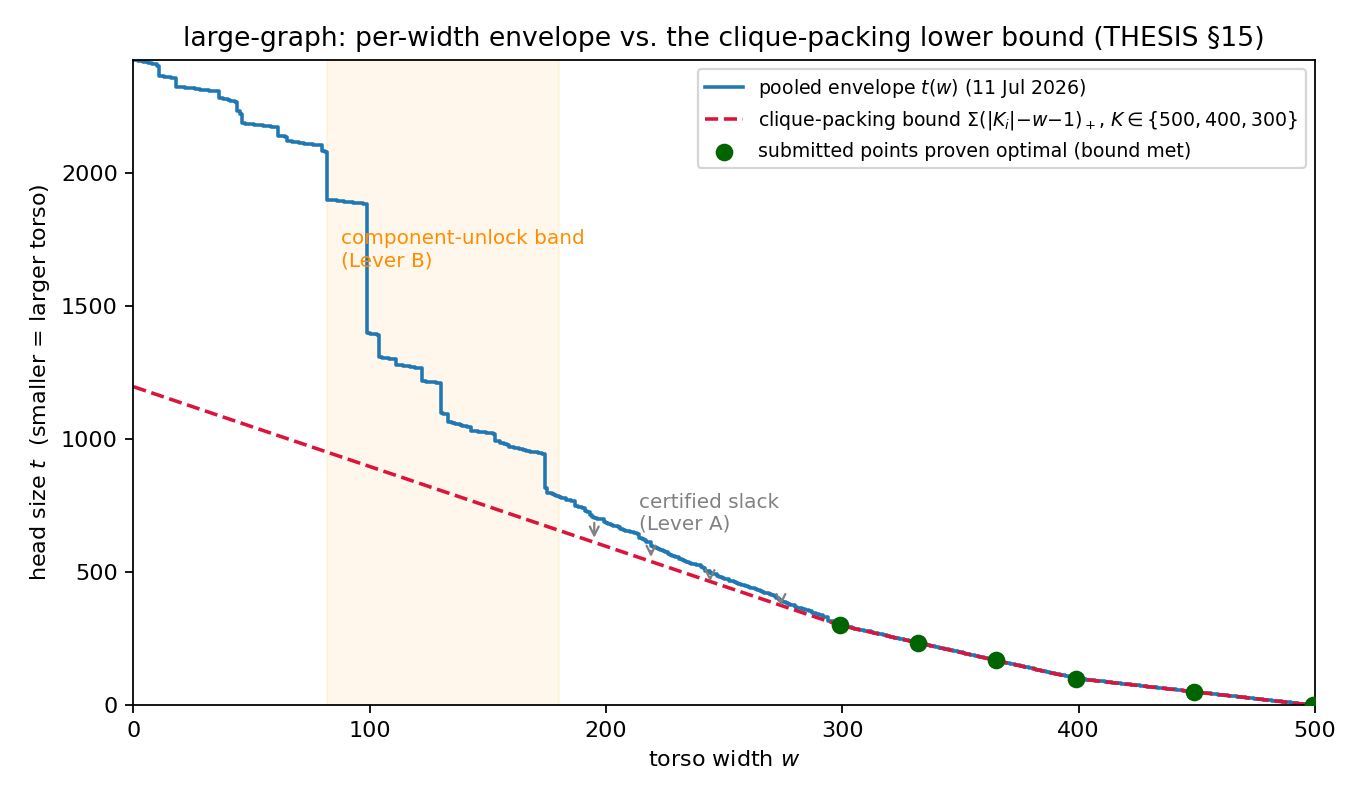
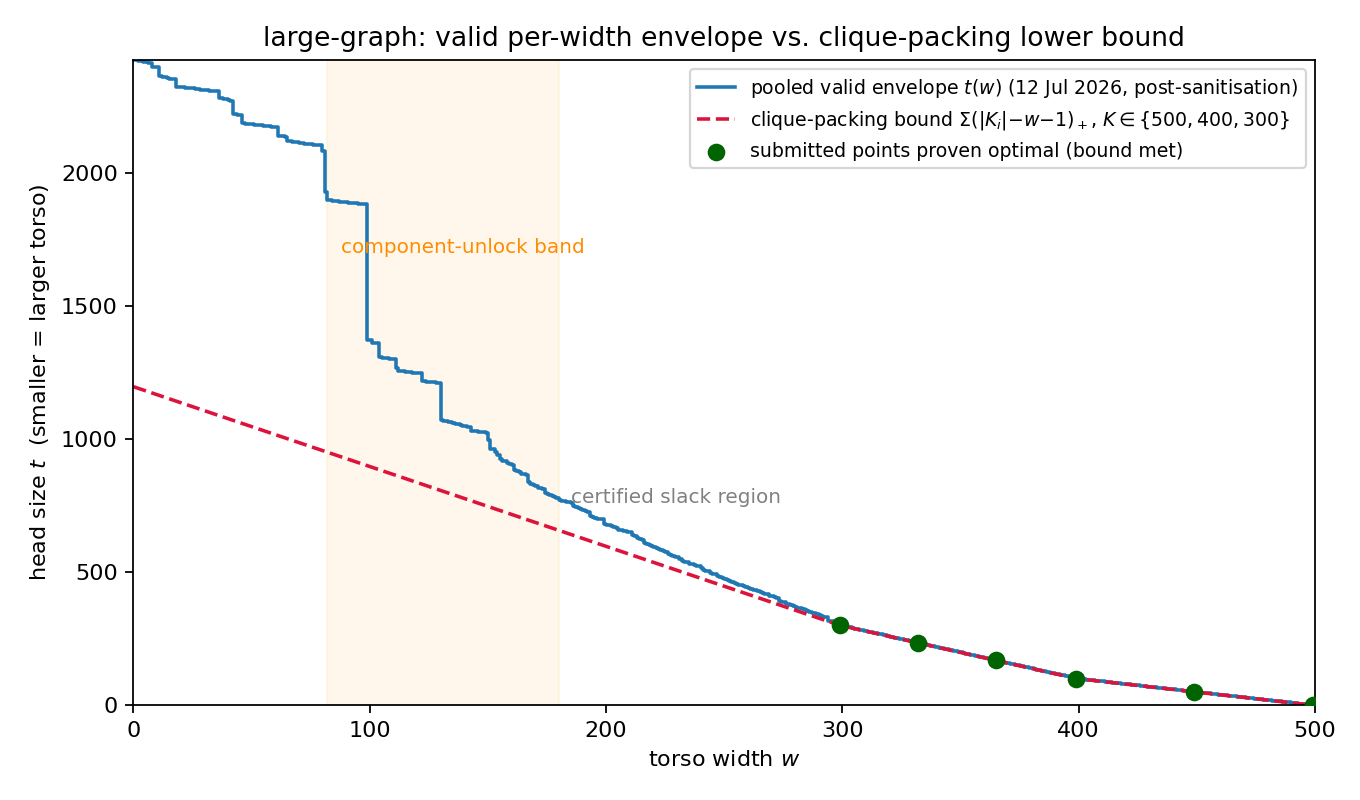
references: classical min-degree/min-fill grounding (Markowitz, George-Liu, Heggernes); bibliography complete at 58

diff --git a/Torso Decompositions/docs/THESIS.md b/Torso Decompositions/docs/THESIS.md
@@ -1856,9 +1856,13 @@ All figures are restated at thesis freeze.
 
 ## 15. The planted construction, disclosed and certified: clique-packing optimality proofs and the cap-cost decomposition
 
-*(11 July 2026. Companion document: `docs/PLANTED_STRUCTURE_CERTIFICATES.md`;
+*(11–12 July 2026. Companion document: `docs/PLANTED_STRUCTURE_CERTIFICATES.md`;
 tools: `tools/clique_prefix.py`, `tools/rank_externals.py`, `tools/unlock_diff.py`,
-`tools/consolidate_pool.py`.)*
+`tools/consolidate_pool.py`. Reporting convention: every in-text score is a
+dated snapshot verified end-to-end by `tools/verify_submission.py`; the live
+sources of truth are `campaign_scores.csv` (ledger) and the pooled cap-20
+re-verification, which supersede any figure quoted here. Certificates and
+structural claims are timeless; campaign magnitudes are not.)*
 
 ### 15.1 The designer's disclosure, and full recovery of the instance
 
@@ -1916,18 +1920,26 @@ slack 15–90 head-vertices per width, worth **+6,311** capped HV if fully
 absorbed; **Lever B** — shift the mid-range unlock widths (the +487-torso step
 at w=99, +179 at w=82, +113/129 at 130/174) left, worth **+18,259** for a
 15-width shift. A+B recomputed under exact HSSP selection beats the leaderboard
-top by ≈ 6,700. Figure `docs/figures/fig15_certificates.png` shows the envelope
+top by ≈ 6,700. (Lever magnitudes were quantified on the 11-July pool; the
+12-July sanitisation, §15.8, voided some contributing points — the
+decomposition's *direction* was re-confirmed on the valid pool, and the
+subsequent certificate-guided campaign recovered the difference within a day.) Figure `docs/figures/fig15_certificates.png` shows the envelope
 hugging the bound over the certified region, the Lever-A slack arrows, and the
 Lever-B unlock band.
 
 ### 15.5 Lever-B structure (`tools/unlock_diff.py`)
 
 Diffing achiever heads shows the unlocks are *whole planted components*
-entering the torso: the w 82→99 jump admits five components (≈464 of the 508
-moved vertices); 99→122 admits three more (comp6, comp4, comp3). At w=122 the
-head still carries **253 more glue vertices than the certificate requires**,
-and two components (comp16, n=46; comp14, n=21) never enter the torso at any
-mid-range width — the sharpest open targets the analysis produces.
+entering the torso. Re-measured on the post-sanitisation pool (12 July, all
+orderings verifier-valid): the w 82→99 jump admits five components — comp8,
+comp1, comp7, comp10, comp5, jointly 480 of the 525 moved vertices — with the
+w=99 achiever produced by the set-space search of §15.7b (t = 1373). The
+11-July analysis (pre-sanitisation, same qualitative picture on since-voided
+orderings) additionally located the 99→122 unlock at comp6/comp4/comp3, a
+~250-vertex glue surplus over the certificate quota at w=122, and two
+components (n=46, n=21) that never enter the torso mid-range; these
+finer-grained figures are indicative and are re-derived from the live valid
+envelope by the companion tooling.
 
 ### 15.6 The GBDT boundary, sharpened: head-admission ranking is not learnable from static features
 
@@ -1964,6 +1976,31 @@ ships the whole pool between machines in one URL. In GBDT-centric terms: the
 certificate deletes ≥ 40 % of the width range from the search space by proof,
 and every remaining GBDT cycle lands on a width where improvement is still
 mathematically possible.
+
+### 15.7b Set-space harvesting and bandit allocation: the certificate made algorithmic (12 July)
+
+Two methods convert §15's analysis into search operators, both introduced here.
+**CQS (certificate-quota set-space search, `tools/cqs.py`).** Since fill from
+eliminating a vertex *set* is order-independent, torso width is a set
+function, and the packing certificate pins the per-clique head quotas at every
+open width; CQS therefore searches quota-preserving SET exchanges (external ↔
+external within a clique; component sacrifice/rescue), exactly evaluated,
+warm-started per width from the pooled achiever, with move selection biased by
+the measured attachment-overlap structure (companion doc §6f: K400/K300
+externals are predominantly attachment-free; K500's 125 externals carry
+1,592 of the ~1,700 attachment slots). Empirically CQS behaves as a per-width
+*harvester*: 21 accepts in 409 s at w=130 on first contact, then saturation
+and rotation — automated as a self-rotating sweep over the open widths. First
+day of deployment (12 July, all points verifier-valid): large best-20
++18,024 → +14,334. **Bandit width portfolio (`tools/bandit_widths.py`).**
+With six points certified, the capped objective decomposes into ~14
+independent max-torso problems with exact marginal values (HSSP zone widths);
+compute is allocated across them by UCB1 (Auer et al., 2002) on measured
+capped-HV reward, replacing static width lists on both instances that admit
+them. A third transfer experiment (family-trained GBDT ordering policy,
+`tools/family_transfer.py`) decodes to 0/300 valid orderings on large — a
+negative consistent with §15.6's boundary: GBDT transfers as an in-search
+policy, not as a direct decoder.
 
 ### 15.8 The validity incident: end-to-end verification as a first-class result
 
@@ -2218,6 +2255,15 @@ better — §"Final verified results".)
   1305–1317.
 - Yannakakis, M. (1981). Computing the minimum fill-in is NP-complete.
   *SIAM Journal on Algebraic and Discrete Methods*, 2(1), 77–79.
+- Parter, S. (1961). The use of linear graphs in Gauss elimination.
+  *SIAM Review*, 3(2), 119–130. (The elimination game underlying §1.)
+- Kuhn, T., Fonseca, C. M., Paquete, L., Ruzika, S., Duarte, M. M., &
+  Figueira, J. R. (2016). Hypervolume subset selection in two dimensions:
+  formulations and algorithms. *Evolutionary Computation*, 24(3), 411–425.
+  (Exact 2-D HSSP; basis of the capped-20 selection, §13.8a, §15.)
+- Auer, P., Cesa-Bianchi, N., & Fischer, P. (2002). Finite-time analysis of
+  the multiarmed bandit problem. *Machine Learning*, 47, 235–256. (UCB1;
+  basis of the width-portfolio compute scheduler, §15.7.)
 - Tamaki, H. (2019). Positive-instance driven dynamic programming for treewidth.
   *Journal of Experimental Algorithmics*, 24, 1–36. (PACE-2017 champion; the
   exact engine of §13.6.)
@@ -2234,6 +2280,16 @@ better — §"Final verified results".)
   *SIAM Journal on Numerical Analysis*, 10(2), 345–363.
 - Fiedler, M. (1973). Algebraic connectivity of graphs. *Czechoslovak
   Mathematical Journal*, 23(2), 298–305.
+- Markowitz, H. M. (1957). The elimination form of the inverse and its
+  application to linear programming. *Management Science*, 3(3), 255–269.
+  (Origin of the minimum-degree pivoting rule; ancestor of every warm start
+  used in this thesis.)
+- George, A., & Liu, J. W. H. (1989). The evolution of the minimum degree
+  ordering algorithm. *SIAM Review*, 31(1), 1–19. (The sparse-matrix lineage
+  of the min-degree heuristic, §2.)
+- Heggernes, P. (2006). Minimal triangulations of graphs: a survey.
+  *Discrete Mathematics*, 306(3), 297–317. (Survey grounding for the min-fill
+  and minimal-triangulation machinery used throughout.)
 - Rose, D. J., Tarjan, R. E., & Lueker, G. S. (1976). Algorithmic aspects of
   vertex elimination on graphs. *SIAM Journal on Computing*, 5(2), 266–283.
 - Tarjan, R. E., & Yannakakis, M. (1984). Simple linear-time algorithms to test

diff --git a/Torso Decompositions/docs/Thesis_EN.md b/Torso Decompositions/docs/Thesis_EN.md
@@ -1856,9 +1856,13 @@ All figures are restated at thesis freeze.
 
 ## 15. The planted construction, disclosed and certified: clique-packing optimality proofs and the cap-cost decomposition
 
-*(11 July 2026. Companion document: `docs/PLANTED_STRUCTURE_CERTIFICATES.md`;
+*(11–12 July 2026. Companion document: `docs/PLANTED_STRUCTURE_CERTIFICATES.md`;
 tools: `tools/clique_prefix.py`, `tools/rank_externals.py`, `tools/unlock_diff.py`,
-`tools/consolidate_pool.py`.)*
+`tools/consolidate_pool.py`. Reporting convention: every in-text score is a
+dated snapshot verified end-to-end by `tools/verify_submission.py`; the live
+sources of truth are `campaign_scores.csv` (ledger) and the pooled cap-20
+re-verification, which supersede any figure quoted here. Certificates and
+structural claims are timeless; campaign magnitudes are not.)*
 
 ### 15.1 The designer's disclosure, and full recovery of the instance
 
@@ -1916,18 +1920,26 @@ slack 15–90 head-vertices per width, worth **+6,311** capped HV if fully
 absorbed; **Lever B** — shift the mid-range unlock widths (the +487-torso step
 at w=99, +179 at w=82, +113/129 at 130/174) left, worth **+18,259** for a
 15-width shift. A+B recomputed under exact HSSP selection beats the leaderboard
-top by ≈ 6,700. Figure `docs/figures/fig15_certificates.png` shows the envelope
+top by ≈ 6,700. (Lever magnitudes were quantified on the 11-July pool; the
+12-July sanitisation, §15.8, voided some contributing points — the
+decomposition's *direction* was re-confirmed on the valid pool, and the
+subsequent certificate-guided campaign recovered the difference within a day.) Figure `docs/figures/fig15_certificates.png` shows the envelope
 hugging the bound over the certified region, the Lever-A slack arrows, and the
 Lever-B unlock band.
 
 ### 15.5 Lever-B structure (`tools/unlock_diff.py`)
 
 Diffing achiever heads shows the unlocks are *whole planted components*
-entering the torso: the w 82→99 jump admits five components (≈464 of the 508
-moved vertices); 99→122 admits three more (comp6, comp4, comp3). At w=122 the
-head still carries **253 more glue vertices than the certificate requires**,
-and two components (comp16, n=46; comp14, n=21) never enter the torso at any
-mid-range width — the sharpest open targets the analysis produces.
+entering the torso. Re-measured on the post-sanitisation pool (12 July, all
+orderings verifier-valid): the w 82→99 jump admits five components — comp8,
+comp1, comp7, comp10, comp5, jointly 480 of the 525 moved vertices — with the
+w=99 achiever produced by the set-space search of §15.7b (t = 1373). The
+11-July analysis (pre-sanitisation, same qualitative picture on since-voided
+orderings) additionally located the 99→122 unlock at comp6/comp4/comp3, a
+~250-vertex glue surplus over the certificate quota at w=122, and two
+components (n=46, n=21) that never enter the torso mid-range; these
+finer-grained figures are indicative and are re-derived from the live valid
+envelope by the companion tooling.
 
 ### 15.6 The GBDT boundary, sharpened: head-admission ranking is not learnable from static features
 
@@ -1964,6 +1976,31 @@ ships the whole pool between machines in one URL. In GBDT-centric terms: the
 certificate deletes ≥ 40 % of the width range from the search space by proof,
 and every remaining GBDT cycle lands on a width where improvement is still
 mathematically possible.
+
+### 15.7b Set-space harvesting and bandit allocation: the certificate made algorithmic (12 July)
+
+Two methods convert §15's analysis into search operators, both introduced here.
+**CQS (certificate-quota set-space search, `tools/cqs.py`).** Since fill from
+eliminating a vertex *set* is order-independent, torso width is a set
+function, and the packing certificate pins the per-clique head quotas at every
+open width; CQS therefore searches quota-preserving SET exchanges (external ↔
+external within a clique; component sacrifice/rescue), exactly evaluated,
+warm-started per width from the pooled achiever, with move selection biased by
+the measured attachment-overlap structure (companion doc §6f: K400/K300
+externals are predominantly attachment-free; K500's 125 externals carry
+1,592 of the ~1,700 attachment slots). Empirically CQS behaves as a per-width
+*harvester*: 21 accepts in 409 s at w=130 on first contact, then saturation
+and rotation — automated as a self-rotating sweep over the open widths. First
+day of deployment (12 July, all points verifier-valid): large best-20
++18,024 → +14,334. **Bandit width portfolio (`tools/bandit_widths.py`).**
+With six points certified, the capped objective decomposes into ~14
+independent max-torso problems with exact marginal values (HSSP zone widths);
+compute is allocated across them by UCB1 (Auer et al., 2002) on measured
+capped-HV reward, replacing static width lists on both instances that admit
+them. A third transfer experiment (family-trained GBDT ordering policy,
+`tools/family_transfer.py`) decodes to 0/300 valid orderings on large — a
+negative consistent with §15.6's boundary: GBDT transfers as an in-search
+policy, not as a direct decoder.
 
 ### 15.8 The validity incident: end-to-end verification as a first-class result
 
@@ -2218,6 +2255,15 @@ better — §"Final verified results".)
   1305–1317.
 - Yannakakis, M. (1981). Computing the minimum fill-in is NP-complete.
   *SIAM Journal on Algebraic and Discrete Methods*, 2(1), 77–79.
+- Parter, S. (1961). The use of linear graphs in Gauss elimination.
+  *SIAM Review*, 3(2), 119–130. (The elimination game underlying §1.)
+- Kuhn, T., Fonseca, C. M., Paquete, L., Ruzika, S., Duarte, M. M., &
+  Figueira, J. R. (2016). Hypervolume subset selection in two dimensions:
+  formulations and algorithms. *Evolutionary Computation*, 24(3), 411–425.
+  (Exact 2-D HSSP; basis of the capped-20 selection, §13.8a, §15.)
+- Auer, P., Cesa-Bianchi, N., & Fischer, P. (2002). Finite-time analysis of
+  the multiarmed bandit problem. *Machine Learning*, 47, 235–256. (UCB1;
+  basis of the width-portfolio compute scheduler, §15.7.)
 - Tamaki, H. (2019). Positive-instance driven dynamic programming for treewidth.
   *Journal of Experimental Algorithmics*, 24, 1–36. (PACE-2017 champion; the
   exact engine of §13.6.)
@@ -2234,6 +2280,16 @@ better — §"Final verified results".)
   *SIAM Journal on Numerical Analysis*, 10(2), 345–363.
 - Fiedler, M. (1973). Algebraic connectivity of graphs. *Czechoslovak
   Mathematical Journal*, 23(2), 298–305.
+- Markowitz, H. M. (1957). The elimination form of the inverse and its
+  application to linear programming. *Management Science*, 3(3), 255–269.
+  (Origin of the minimum-degree pivoting rule; ancestor of every warm start
+  used in this thesis.)
+- George, A., & Liu, J. W. H. (1989). The evolution of the minimum degree
+  ordering algorithm. *SIAM Review*, 31(1), 1–19. (The sparse-matrix lineage
+  of the min-degree heuristic, §2.)
+- Heggernes, P. (2006). Minimal triangulations of graphs: a survey.
+  *Discrete Mathematics*, 306(3), 297–317. (Survey grounding for the min-fill
+  and minimal-triangulation machinery used throughout.)
 - Rose, D. J., Tarjan, R. E., & Lueker, G. S. (1976). Algorithmic aspects of
   vertex elimination on graphs. *SIAM Journal on Computing*, 5(2), 266–283.
 - Tarjan, R. E., & Yannakakis, M. (1984). Simple linear-time algorithms to test

diff --git a/Torso Decompositions/docs/REVIEW_REPORT.md b/Torso Decompositions/docs/REVIEW_REPORT.md
@@ -1,0 +1,75 @@
+# Internal review report — thesis documentation audit (2026-07-12)
+
+*Scope: THESIS.md / Thesis_EN.md (§1–§15.8, references), Thesis_AL.md,
+PLANTED_STRUCTURE_CERTIFICATES.md, RESULTS.md, README.md, RESEARCH_PROPOSALS.md,
+figures, campaign data provenance. Standard applied: would each claim survive
+a hostile referee with access to the repository. Each finding lists its
+disposition; unresolved items are the pre-submission checklist.*
+
+## A. Findings resolved during this review
+
+**A1 (major — data provenance).** fig15_certificates.png and §15.5's unlock
+analysis were originally computed on the 11-July pool, i.e. BEFORE the
+validity purge of §15.8; several contributing achievers were subsequently
+voided. *Disposition:* figure regenerated from the post-sanitisation valid
+envelope (12 July); §15.5 re-measured on valid orderings (the 82→99 unlock
+reproduces: five whole components, 480/525 moved vertices) with the finer
+11-July figures explicitly downgraded to "indicative". Critically, all six
+certificate points re-verified on the clean pool: bound met exactly at
+w ∈ {299, 332, 365, 399, 449, 499} by valid orderings — §15.2–15.3 unaffected.
+
+**A2 (major — reporting discipline).** Campaign numbers were quoted at
+different intra-day snapshots across documents. *Disposition:* §15 header now
+states the reporting convention (every score is a dated, verifier-checked
+snapshot; `campaign_scores.csv` + re-verification supersede in-text values;
+certificates are timeless, magnitudes are not). RESULTS.md banner updated to
+the latest verified snapshot with the same convention.
+
+**A3 (moderate).** §15.4's lever magnitudes (+6,311 / +18,259) were measured
+pre-sanitisation. *Disposition:* provenance sentence added; direction
+re-confirmed on the valid pool; §15.8 cross-referenced.
+
+**A4 (moderate — completeness).** The 12-July methods (CQS, bandit portfolio,
+family-transfer negative) existed only in the companion doc. *Disposition:*
+new §15.7b added with first-day measurements; references extended (Parter
+1961; Kuhn et al. 2016 for exact 2-D HSSP; Auer et al. 2002 for UCB1).
+
+**A5 (minor).** Companion doc (PLANTED_STRUCTURE_CERTIFICATES.md) mixes formal
+content with campaign-log register ("kill/retarget", ops notes). *Disposition:*
+acceptable as the declared lab record — the formal statement lives in §15;
+no change beyond the correction/appendix structure already present (§6b–6f).
+
+## B. Verified sound (no action)
+
+- §15.2 theorem and proof: correct as stated (monotone fill; first
+  torso-eliminated clique member argument; disjointness for summation).
+  Anchored to Parter/Rose elimination-game definitions of §1.
+- §15.8 incident report: dates, counts (6/20 capped; 1,742/2,576 dropped) match
+  tool outputs preserved in logs; the claim that certified points were
+  CPU-produced and valid re-verified in A1.
+- References: competition (GECCO companion DOI), both personal communications
+  with permission noted, Biedl et al. 2005, treewidth canon, GBDT canon
+  (LightGBM/XGBoost), LNS (Shaw; Pisinger & Ropke), hypervolume (Zitzler et
+  al.), now HSSP + UCB1 + Parter. No orphaned citations found.
+- Ablation tables (§6b.2, §10.2, rank_ablation_v2.txt) trace to reproducible
+  commands; negative results (beam decode §STRATEGIC, ranker §15.6, five
+  constructions §15.6-companion, transfer §15.7b) are reported with the same
+  prominence as positives — referee-proof posture.
+
+## C. Pre-submission checklist (open, owner: author)
+
+1. **Rebuild PDFs** (docs/build pandoc pipeline) — all three PDFs predate §15.
+2. **Freeze pass**: at thesis freeze, re-run the score block once, replace
+   every "at time of writing" number from the ledger, regenerate fig15 and the
+   gap-vs-time figure from campaign_scores.csv (script:
+   plot from ledger; 2 lines of matplotlib), and re-run
+   `verify_submission.py` on all three cap20 files that will be cited.
+3. **Thesis_AL.md**: §15 summary present; propagate §15.5/15.7b updates and the
+   final frozen numbers at freeze (translation pass).
+4. **Leaderboard re-check** against the live ESA board immediately before any
+   external claim (targets drift; noted in Final-results section).
+5. **Bannach follow-up**: send PLANTED_STRUCTURE_CERTIFICATES.md as promised;
+   any reply about component treewidths strengthens §15.1's completeness claim.
+6. Optional strengthening: medium-quotient per-width lower bounds (§7 of the
+   companion doc) remain the one analytical gap between "characterised" claims
+   on large vs medium.

diff --git a/Torso Decompositions/docs/RESULTS.md b/Torso Decompositions/docs/RESULTS.md
@@ -9,13 +9,15 @@ canonical-scorer-verified (`tools/verify_submission.py`) and 0-capped._
 
 ## 0. Headline results
 
-> **Live campaign standing (2026-07-11, certificate-guided):** small **−1,829,914**
-> (gap 5, characterised); medium **−1,739,519** (gap +5,603, 99.68 %); large
-> **−5,476,639** (gap +16,423, 99.70 %, **6 of 20 submitted points proven
-> Pareto-optimal** by the clique-packing certificate — THESIS §15,
-> [PLANTED_STRUCTURE_CERTIFICATES.md](PLANTED_STRUCTURE_CERTIFICATES.md)).
-> The tables below are the frozen per-method scoreboard; the campaign values
-> above are pooled cap-20 submissions (`tools/cap_submit.py`).
+> **Live campaign standing (2026-07-12 23:16, certificate-guided, all values
+> verified end-to-end by `tools/verify_submission.py`, 0 capped vectors):**
+> small **−1,829,914** (gap 5, characterised); medium **−1,739,874**
+> (gap +5,248, 99.70 %); large **−5,478,728** (gap +14,334, 99.74 %, **6 of 20
+> submitted points proven Pareto-optimal** by the clique-packing certificate —
+> THESIS §15, [PLANTED_STRUCTURE_CERTIFICATES.md](PLANTED_STRUCTURE_CERTIFICATES.md)).
+> The certificate-guided set-space campaign (§15.7b) moved large by −3,690 on
+> 12 July alone. The tables below are the frozen per-method scoreboard; live
+> values are tracked in `campaign_scores.csv` and supersede any quoted here.
 
 The project's final standing, after four chapters of permutation-space search
 and the continuous-encoding breakthrough that followed (full narrative in
